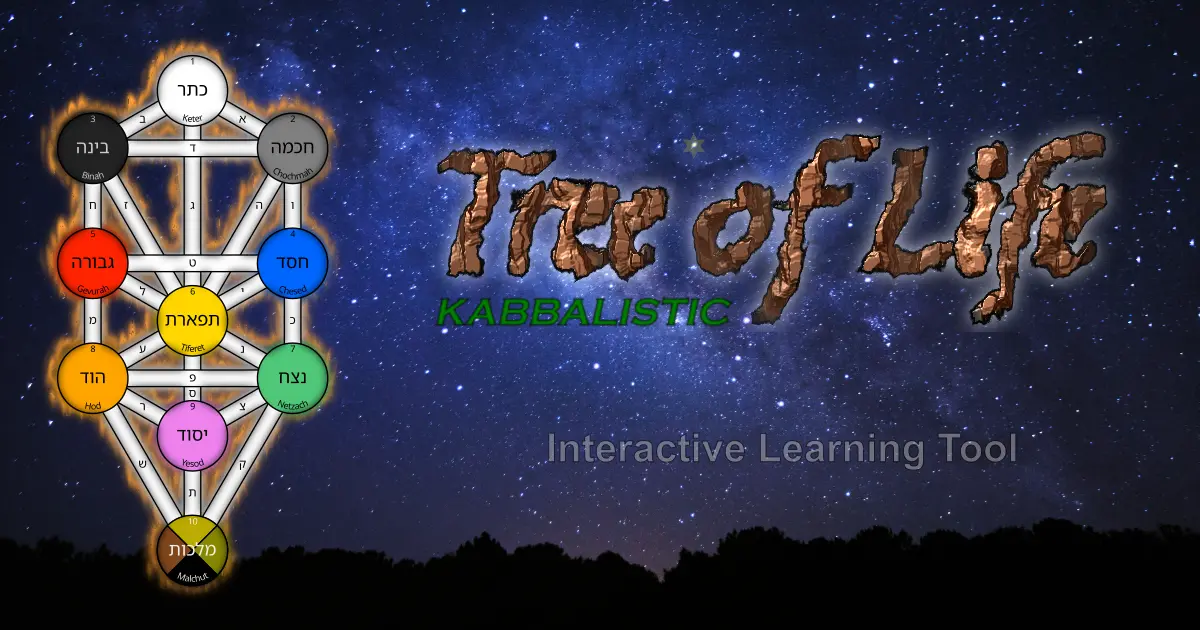
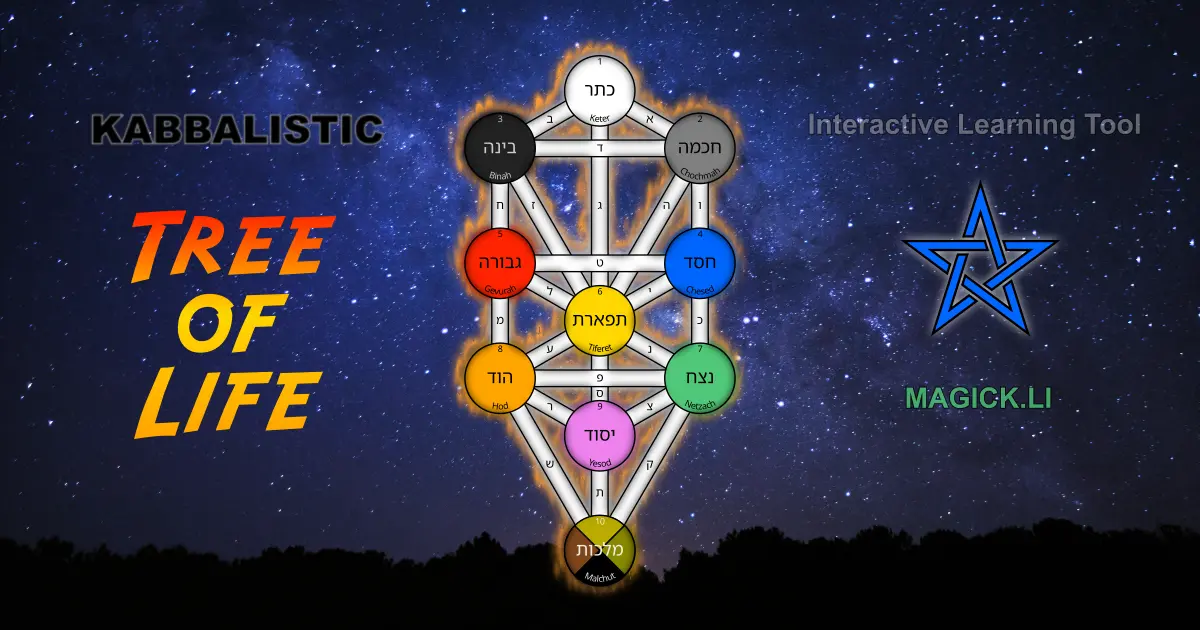
update tree feature

diff --git a/pages/kabbalah/tree.js b/pages/kabbalah/tree.js
@@ -101,7 +101,7 @@ function TreeOfLife() {
         {/* "https://magick.li/kabbalah/tree" + "?" + urlQuery */}
         <meta property="og:url" content="https://magick.li/kabbalah/tree" />
         {/* "https://magick.li/api/treeOfLife?v=1&fmt=webp&width=1200&height=630&" + urlQuery */}
-        <meta property="og:image" content="https://magick.li/feature/kabbalah/tree.webp" />
+        <meta property="og:image" content="https://magick.li/feature/kabbalah/tree.webp?v=2" />
         <meta property="og:image:type" content="image/webp" />
         <meta property="og:image:width" content="1200" />
         <meta property="og:image:height" content="630" />
